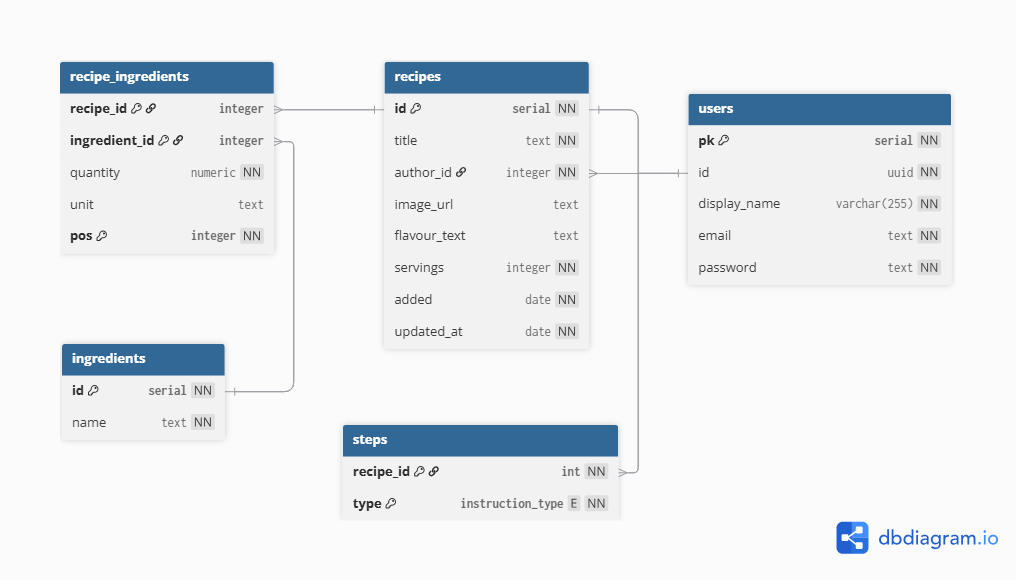
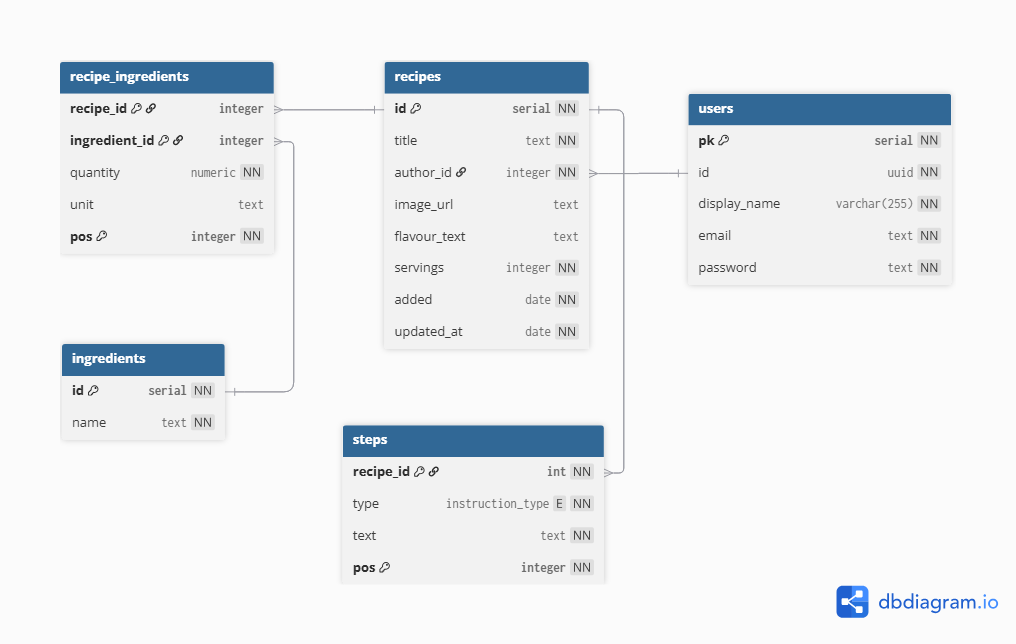
fix database-diagram and example data

diff --git a/recipe-webapp/app/lib/example-data.ts b/recipe-webapp/app/lib/example-data.ts
@@ -2,84 +2,174 @@ import { text } from "stream/consumers";
 
 const recipes = [
   {
-    id: '410544b2-4001-4271-9855-fec4b6a6442a',
     title: 'Boiled Egg',
+    id: 1,
     author_id: 'd6e15727-9fe1-4961-8c5b-ea44a9bd81aa',
-    creation_date: '1960-06-15',
-    add_date: '2025-11-14',
+    added: '1960-06-15',
+    updated: '2025-11-14',
     servings: '1',
     ingredients: [
       {
-        name: 'egg', quantity: '1', unit: '',
+        name: 'egg', quantity: '1', unit: '', id: '1', pos: '1'
       }
     ],
     steps: [
       { type: 'instruction',
         text: 'Put egg(s) in a pot of cold water.',
+        pos: '1'
       },
       { type: 'instruction',
         text: 'Place the pot on high heat on the stove.',
+        pos: '2'
       },
       {
         type: 'instruction',
-        text: 'Once water is boiling, put heat on medium and set a timer for 6 minutes. This makes for a perfectly cooked hard-boiled egg.'
+        text: 'Once water is boiling, put heat on medium and set a timer for 6 minutes. This makes for a perfectly cooked hard-boiled egg.',
+        pos: '3'
       },
       { type: 'tip',
-        text: 'If you would rather have a soft boiled egg, cook for 4 minutes.'
+        text: 'If you would rather have a soft boiled egg, cook for 4 minutes.',
+        pos: '4'
       },
       {
         type: 'instruction',
-        text: 'Pour the hot water out and add cold water to the pan. Wait 1 minute.'
+        text: 'Pour the hot water out and add cold water to the pan. Wait 1 minute.',
+        pos: '5'
       },
       {
         type: 'instruction',
-        text: 'Lightly tap the egg on a hard surface to crack the shell. Peel it off and enjoy your egg.'
+        text: 'Lightly tap the egg on a hard surface to crack the shell. Peel it off and enjoy your egg.',
+        pos: '6'
       }
     ]
   },
   {
-    id: '550e8400-e29b-41d4-a716-446655440000',
     title: 'Simple Pasta',
+    id: '2',
     author_id: 'd6e15727-9fe1-4961-8c5b-ea44a9bd81aa',
-    creation_date: '1995-03-20',
-    add_date: '2025-11-14',
+    added: '1995-03-20',
+    updated: '2025-11-14',
     servings: '2',
     ingredients: [
       {
-        name: 'pasta', quantity: '200', unit: 'g',
+        name: 'pasta', quantity: '200', unit: 'g', pos: '1', id: '2'
       },
       {
-        name: 'salt', quantity: '1', unit: 'tsp',
+        name: 'salt', quantity: '1.5', unit: 'tsp', pos: '2', id: '3'
       },
       {
-        name: 'olive oil', quantity: '2', unit: 'tbsp',
+        name: 'olive oil', quantity: '2', unit: 'tbsp', pos: '3', id: '4'
       },
       {
-        name: 'garlic', quantity: '2', unit: 'cloves',
+        name: 'garlic', quantity: '2', unit: 'cloves', pos: '4', id: '5'
       }
     ],
     steps: [
       { type: 'instruction',
         text: 'Fill a large pot with water and bring to a boil.',
+        pos: '1'
       },
       { type: 'instruction',
         text: 'Add salt to the boiling water.',
+        pos: '2'
       },
       { type: 'instruction',
         text: 'Add pasta and cook for 8-10 minutes until al dente.',
+        pos: '3'
       },
       { type: 'instruction',
         text: 'Drain pasta and set aside.',
+        pos: '4'
       },
       { type: 'instruction',
         text: 'Heat olive oil in a pan and cook minced garlic until fragrant.',
+        pos: '5'
       },
       { type: 'instruction',
-        text: 'Toss pasta with garlic oil and serve.'
+        text: 'Toss pasta with garlic oil and serve.',
+        pos: '6'
       },
       { type: 'tip',
-        text: 'Reserve some pasta water to add creaminess if needed.'
+        text: 'Reserve some pasta water to add creaminess if needed.',
+        pos: '7'
       }
     ]
   }
 ]
+
+const users = [
+  {
+    pk: 1,
+    id: 'd6e15727-9fe1-4961-8c5b-ea44a9bd81aa',
+    display_name: "yummyfood",
+    email: "yummyfood@gmail.com",
+    password: "1234nomnom"
+  }
+]
+
+
+/**
+ * An array of arrays where each nested array contains 
+ * 1 or more sql statements which can be run in parallel.
+ * These statements set up the user table.
+ */
+const UserSeedingStrings = [
+  [`CREATE EXTENSION IF NOT EXISTS "uuid-ossp"`],
+  [`
+    CREATE TABLE IF NOT EXISTS users (
+      pk serial PRIMARY KEY NOT NULL,
+      id UUID DEFAULT UNIQUE uuid_generate_v4(),
+      display_name VARCHAR(255) NOT NULL,
+      email TEXT NOT NULL UNIQUE,
+      password TEXT NOT NULL
+    );
+  `]
+]
+
+/**
+ * An array of arrays where each nested array contains 
+ * 1 or more sql statements which can be run in parallel.
+ * These statements set up the recipe table.
+ */
+const RecipeSeedingStrings = [
+  [
+    `CREATE TABLE IF NOT EXISTS "recipes" (
+    "id" SERIAL PRIMARY KEY NOT NULL,
+    "title" TEXT NOT NULL,
+    "author_id" INTEGER NOT NULL,
+    "image_url" TEXT,
+    "flavour_text" TEXT,
+    "servings" INTEGER NOT NULL,
+    "added" DATE NOT NULL,
+    "updated" DATE NOT NULL
+    );
+  `,
+  `CREATE TABLE IF NOT EXISTS "ingredients" (
+    "id" SERIAL PRIMARY KEY NOT NULL,
+    "name" TEXT UNIQUE NOT NULL
+    );
+  `,
+  `CREATE TABLE IF NOT EXISTS "recipe_ingredients" (
+    "recipe_id" INTEGER,
+    "ingredient_id" INTEGER,
+    "quantity" NUMERIC(10,4) NOT NULL,
+    "unit" TEXT,
+    "pos" INTEGER NOT NULL,
+    PRIMARY KEY ("recipe_id", "ingredient_id", "pos")
+    );
+  `,
+  `CREATE TABLE IF NOT EXISTS "steps" (
+    "recipe_id" int NOT NULL,
+    "type" instruction_type NOT NULL,
+    "text" text NOT NULL,
+    "pos" integer NOT NULL,
+    PRIMARY KEY ("recipe_id", "pos")
+    );
+    `],
+    [`ALTER TABLE "recipes" ADD FOREIGN KEY ("author_id") REFERENCES "users" ("id");`],
+    [`ALTER TABLE "recipe_ingredients" ADD FOREIGN KEY ("recipe_id") REFERENCES "recipes" ("id");`],
+    [`ALTER TABLE "recipe_ingredients" ADD FOREIGN KEY ("ingredient_id") REFERENCES "ingredients" ("id");`],
+    [`ALTER TABLE "steps" ADD FOREIGN KEY ("recipe_id") REFERENCES "recipes" ("id");`]
+]
+
+export {recipes, users}
